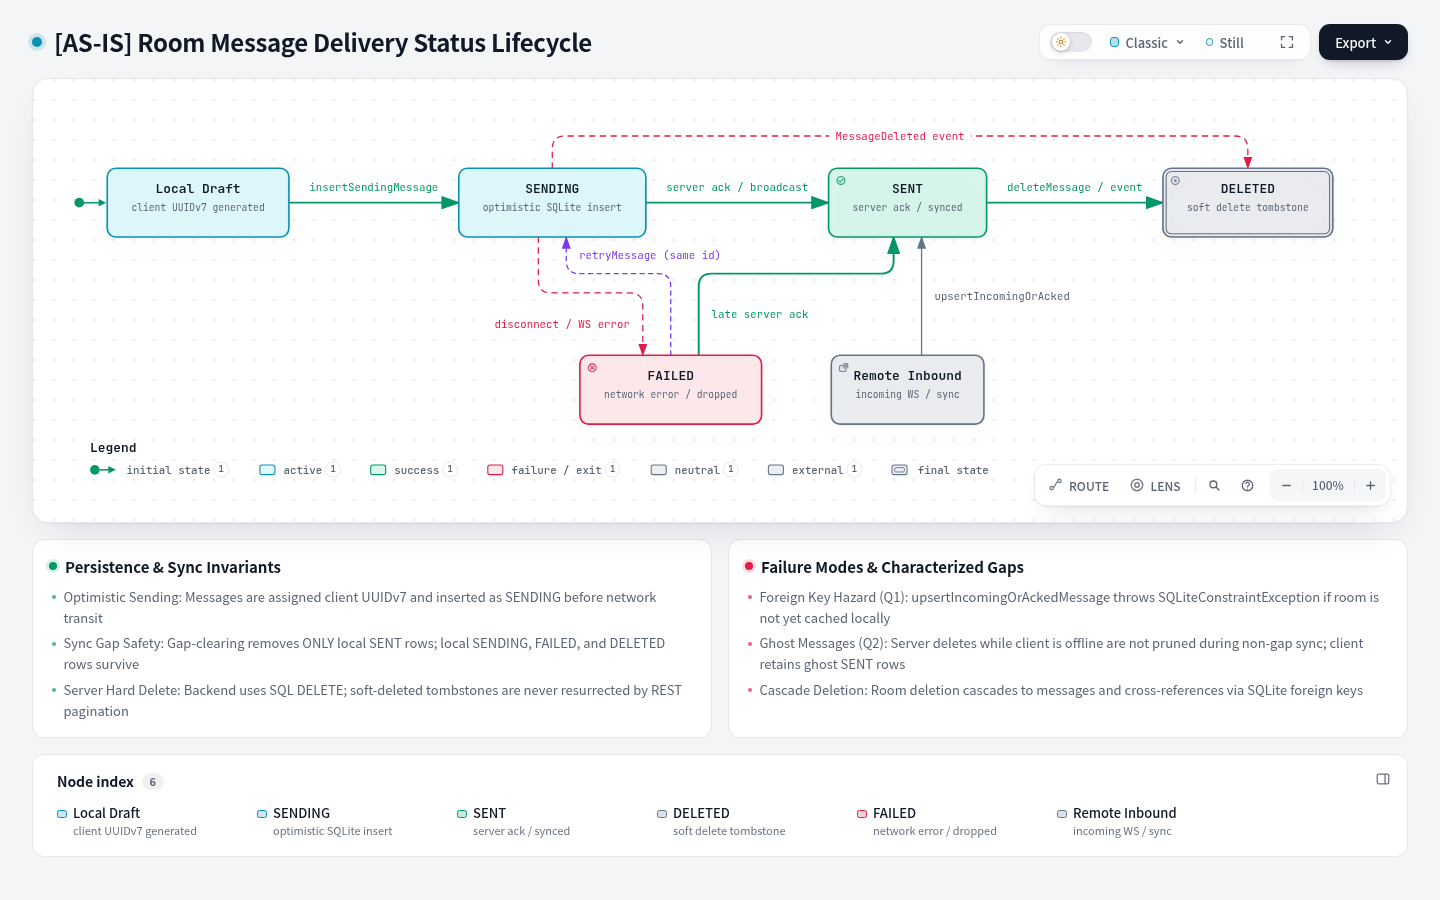
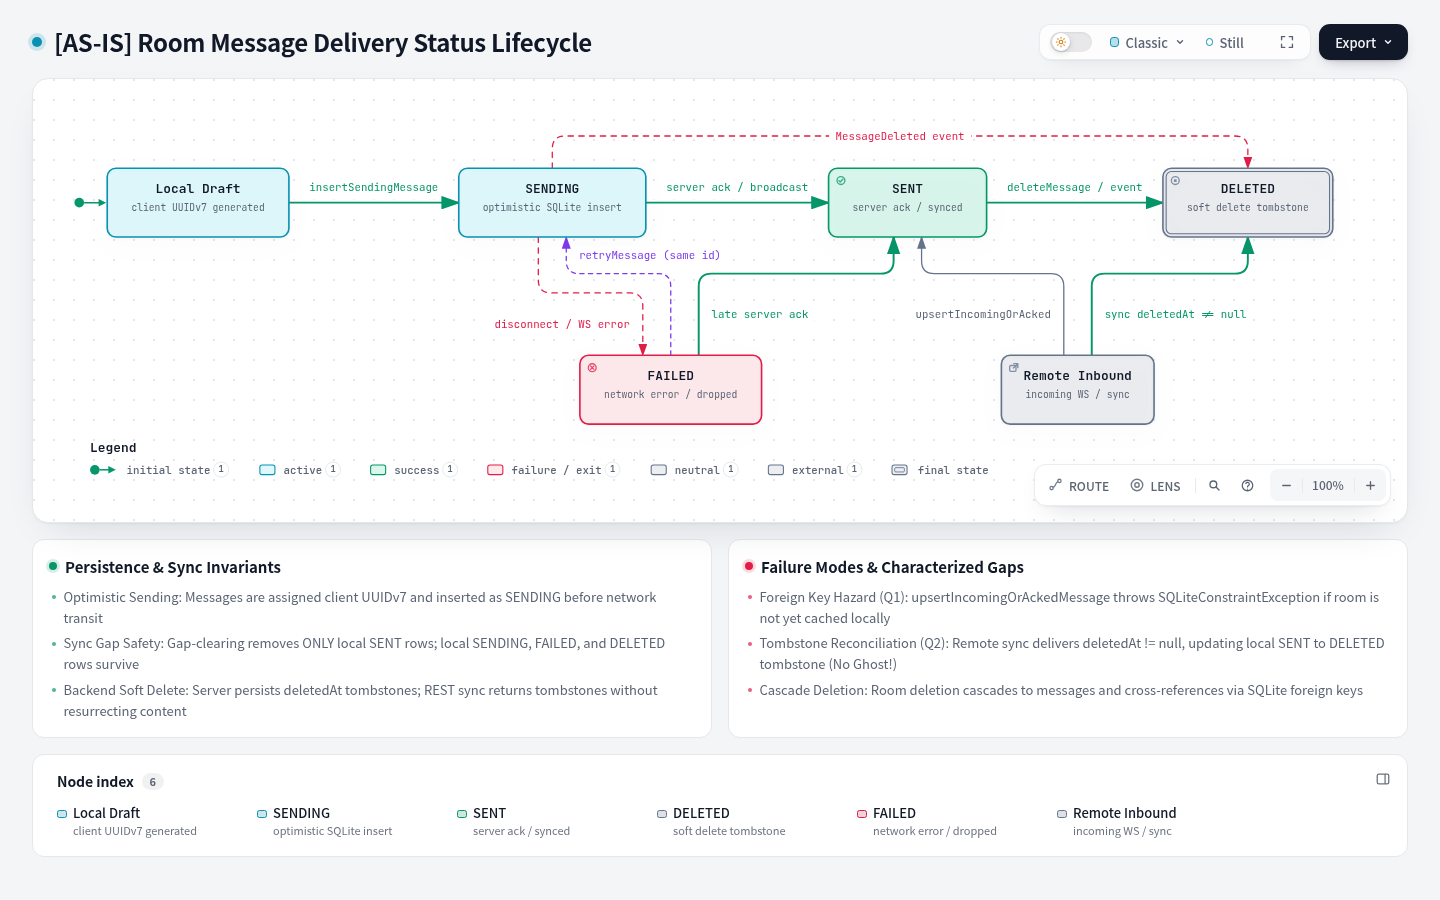
feat(chat): support deletedAt tombstones and eliminate offline ghost messages
- Add deletedAt to domain ChatMessage and map deletedAt != null to DELETED in ChatMapper.
- Update ChatMessageRepositoryImpl to use automatic delivery status mapping on sync.
- Add unit tests in ChatMapperTest and ChatMessageRepositoryImplTest for soft-deleted message ingestion.
- Add ChatDaoTest asserting transition from SENT to DELETED tombstone on sync.
- Update message-delivery-status lifecycle specification and static image previews.

Assisted-by: Gemini 3.8 Flash

diff --git a/docs/architecture/interactive/flows/message-delivery-status.html b/docs/architecture/interactive/flows/message-delivery-status.html
@@ -5261,8 +5261,12 @@ OTHER DEALINGS IN THE FONT SOFTWARE.
           <path data-edge-from="sending" data-edge-to="deleted" data-edge-label="MessageDeleted event" data-edge-key="6" data-edge-id="sending-deleted" data-composition-points="470,70;470,40;1117,40;1117,70" data-composition-crossover="halo" data-composition-independent="true" d="M 470 70 L 470 52 Q 470 40 482 40 L 1105 40 Q 1117 40 1117 52 L 1117 70" class="a-security" data-animate="edge" style="--step:6" stroke-width="1.2" marker-end="url(#arrowhead-security)"/>
         </g>
         <g data-graph-role="automatic-crossover" style="--step:7">
-          <path data-graph-role="automatic-crossover-underlay" d="M 813.5 244 L 813.5 134" fill="none" stroke="var(--mask)" stroke-width="5.2" stroke-linecap="round" stroke-linejoin="round" pointer-events="none"/>
-          <path data-edge-from="remote_inbound" data-edge-to="sent" data-edge-label="upsertIncomingOrAcked" data-edge-key="7" data-edge-id="remote-sent" data-composition-points="813.5,244;813.5,134" data-composition-crossover="halo" data-composition-independent="true" d="M 813.5 244 L 813.5 134" class="a-default" data-animate="edge" style="--step:7" stroke-width="1.2" marker-end="url(#arrowhead)"/>
+          <path data-graph-role="automatic-crossover-underlay" d="M 945.8 244 L 945.8 180 Q 945.8 168 933.8 168 L 825.5 168 Q 813.5 168 813.5 156 L 813.5 134" fill="none" stroke="var(--mask)" stroke-width="5.2" stroke-linecap="round" stroke-linejoin="round" pointer-events="none"/>
+          <path data-edge-from="remote_inbound" data-edge-to="sent" data-edge-label="upsertIncomingOrAcked" data-edge-key="7" data-edge-id="remote-sent" data-composition-points="945.8,244;945.8,168;813.5,168;813.5,134" data-composition-crossover="halo" data-composition-independent="true" d="M 945.8 244 L 945.8 180 Q 945.8 168 933.8 168 L 825.5 168 Q 813.5 168 813.5 156 L 813.5 134" class="a-default" data-animate="edge" style="--step:7" stroke-width="1.2" marker-end="url(#arrowhead)"/>
+        </g>
+        <g data-graph-role="automatic-crossover" style="--step:8">
+          <path data-graph-role="automatic-crossover-underlay" d="M 971.8 244 L 971.8 180 Q 971.8 168 983.8 168 L 1105 168 Q 1117 168 1117 156 L 1117 134" fill="none" stroke="var(--mask)" stroke-width="5.8" stroke-linecap="round" stroke-linejoin="round" pointer-events="none"/>
+          <path data-edge-from="remote_inbound" data-edge-to="deleted" data-edge-label="sync deletedAt != null" data-edge-key="8" data-edge-id="remote-deleted" data-composition-points="971.8,244;971.8,168;1117,168;1117,134" data-composition-crossover="halo" data-composition-independent="true" d="M 971.8 244 L 971.8 180 Q 971.8 168 983.8 168 L 1105 168 Q 1117 168 1117 156 L 1117 134" class="a-emphasis" data-animate="edge" style="--step:8" stroke-width="1.8" marker-end="url(#arrowhead-emphasis)"/>
         </g>
 
 
@@ -5334,15 +5338,15 @@ OTHER DEALINGS IN THE FONT SOFTWARE.
 
         <g id="node-remote_inbound" data-node-id="remote_inbound" data-node-label="Remote Inbound" tabindex="0" role="button" aria-label="Focus Remote Inbound, incoming WS / sync, Lifecycle state" aria-pressed="false" data-node-kind="external" data-node-sublabel="incoming WS / sync" data-node-tag="external" data-node-context="Lifecycle state">
           <title>Remote Inbound · incoming WS / sync · Lifecycle state · external</title>
-          <rect x="729.5" y="244" width="142" height="64" rx="8" class="c-mask"/>
-          <rect x="729.5" y="244" width="142" height="64" rx="8" class="c-external" data-animate="node" style="--step:0" stroke-width="1.5"/>
-          <g aria-hidden="true" data-semantic-sigil="external" class="semantic-sigil s-external" transform="translate(735.5 250) scale(0.6875)">
+          <rect x="887.75" y="244" width="142" height="64" rx="8" class="c-mask"/>
+          <rect x="887.75" y="244" width="142" height="64" rx="8" class="c-external" data-animate="node" style="--step:0" stroke-width="1.5"/>
+          <g aria-hidden="true" data-semantic-sigil="external" class="semantic-sigil s-external" transform="translate(893.75 250) scale(0.6875)">
             <rect x="2.5" y="5" width="8.5" height="8" rx="1.5"/>
             <path d="M8 2.5h5.5V8M13.5 2.5 7.5 8.5"/>
           </g>
-          <text data-node-label="" data-detail-anchor="" x="800.5" y="267" class="t-primary" font-size="12" font-weight="600" text-anchor="middle">Remote Inbound</text>
-          <text data-detail="context" x="800.5" y="284" class="t-muted" font-size="9" text-anchor="middle">incoming WS / sync</text>
-          <text data-detail="fine" x="800.5" y="299" class="t-muted" font-size="8" text-anchor="middle">external</text>
+          <text data-node-label="" data-detail-anchor="" x="958.75" y="267" class="t-primary" font-size="12" font-weight="600" text-anchor="middle">Remote Inbound</text>
+          <text data-detail="context" x="958.75" y="284" class="t-muted" font-size="9" text-anchor="middle">incoming WS / sync</text>
+          <text data-detail="fine" x="958.75" y="299" class="t-muted" font-size="8" text-anchor="middle">external</text>
         </g>
 
         <!-- Transition labels -->
@@ -5375,8 +5379,12 @@ OTHER DEALINGS IN THE FONT SOFTWARE.
           <text x="793.5" y="43.5" class="t-edge-security" font-size="10" text-anchor="middle">MessageDeleted event</text>
         </g>
         <g data-detail="context" data-edge-from="remote_inbound" data-edge-to="sent" data-edge-label="upsertIncomingOrAcked" data-edge-key="7" data-edge-id="remote-sent">
-          <rect x="819.5" y="181" width="138" height="16" rx="4" class="c-mask"/>
-          <text x="888.5" y="192.5" class="t-muted" font-size="10" text-anchor="middle">upsertIncomingOrAcked</text>
+          <rect x="801.8" y="198" width="138" height="16" rx="4" class="c-mask"/>
+          <text x="870.8" y="209.5" class="t-muted" font-size="10" text-anchor="middle">upsertIncomingOrAcked</text>
+        </g>
+        <g data-detail="context" data-edge-from="remote_inbound" data-edge-to="deleted" data-edge-label="sync deletedAt != null" data-edge-key="8" data-edge-id="remote-deleted">
+          <rect x="977.8" y="198" width="144" height="16" rx="4" class="c-mask"/>
+          <text x="1049.8" y="209.5" class="t-edge-emphasis" font-size="10" text-anchor="middle">sync deletedAt != null</text>
         </g>
 
         <!-- Legend -->
@@ -5596,7 +5604,7 @@ OTHER DEALINGS IN THE FONT SOFTWARE.
         <ul>
           <li>Optimistic Sending: Messages are assigned client UUIDv7 and inserted as SENDING before network transit</li>
           <li>Sync Gap Safety: Gap-clearing removes ONLY local SENT rows; local SENDING, FAILED, and DELETED rows survive</li>
-          <li>Server Hard Delete: Backend uses SQL DELETE; soft-deleted tombstones are never resurrected by REST pagination</li>
+          <li>Backend Soft Delete: Server persists deletedAt tombstones; REST sync returns tombstones without resurrecting content</li>
         </ul>
       </div>
 
@@ -5607,7 +5615,7 @@ OTHER DEALINGS IN THE FONT SOFTWARE.
         </div>
         <ul>
           <li>Foreign Key Hazard (Q1): upsertIncomingOrAckedMessage throws SQLiteConstraintException if room is not yet cached locally</li>
-          <li>Ghost Messages (Q2): Server deletes while client is offline are not pruned during non-gap sync; client retains ghost SENT rows</li>
+          <li>Tombstone Reconciliation (Q2): Remote sync delivers deletedAt != null, updating local SENT to DELETED tombstone (No Ghost!)</li>
           <li>Cascade Deletion: Room deletion cascades to messages and cross-references via SQLite foreign keys</li>
         </ul>
       </div>

diff --git a/core/database/src/test/kotlin/io/github/neronguyen/chat/core/database/dao/ChatDaoTest.kt b/core/database/src/test/kotlin/io/github/neronguyen/chat/core/database/dao/ChatDaoTest.kt
@@ -297,6 +297,29 @@ class ChatDaoTest {
     }
 
     @Test
+    fun syncRecentMessagesTransaction_reconcilesOfflineDeleteTombstone_fromSentToDeleted() = runTest {
+        // Contract SSOT: Backend returns soft-deleted tombstones (deletedAt != null -> DELETED)
+        createRoom("room-1")
+        val m1 = createMessage("m1", timestamp = 100L, deliveryStatus = MessageDeliveryStatus.SENT)
+        val m2 = createMessage("m2", timestamp = 200L, deliveryStatus = MessageDeliveryStatus.SENT)
+        val m3 = createMessage("m3", timestamp = 300L, deliveryStatus = MessageDeliveryStatus.SENT)
+        chatDao.upsertMessages(listOf(m1, m2, m3))
+
+        // Remote page delivers m2 as a soft-deleted tombstone (content redacted, status DELETED)
+        val remoteM1 = createMessage("m1", timestamp = 100L, deliveryStatus = MessageDeliveryStatus.SENT)
+        val remoteM2Tombstone = createMessage("m2", content = "", timestamp = 200L, deliveryStatus = MessageDeliveryStatus.DELETED)
+        val remoteM3 = createMessage("m3", timestamp = 300L, deliveryStatus = MessageDeliveryStatus.SENT)
+
+        chatDao.syncRecentMessagesTransaction("room-1", listOf(remoteM1, remoteM2Tombstone, remoteM3))
+
+        // m2 is successfully updated to DELETED tombstone; no ghost message remains!
+        val reconciled = chatDao.getMessageById("m2")
+        assertNotNull(reconciled)
+        assertEquals(MessageDeliveryStatus.DELETED, reconciled.deliveryStatus)
+        assertEquals("", reconciled.content)
+    }
+
+    @Test
     fun syncRecentMessagesTransaction_knownGap_offlineDeleteLeavesGhostSentMessage() = runTest {
         // Characterization test for Q2-A:
         // When a message is deleted server-side while the client is offline,

diff --git a/core/data/src/test/kotlin/io/github/neronguyen/chat/core/data/mapper/ChatMapperTest.kt b/core/data/src/test/kotlin/io/github/neronguyen/chat/core/data/mapper/ChatMapperTest.kt
@@ -65,6 +65,47 @@ class ChatMapperTest {
     }
 
     @Test
+    fun `ChatMessageDto with deletedAt toEntity defaults to DELETED deliveryStatus`() {
+        val createdInstant = Instant.parse("2025-01-01T12:00:00Z")
+        val deletedInstant = Instant.parse("2025-01-01T12:05:00Z")
+
+        val dto = ChatMessageDto(
+            id = "msg-del-1",
+            roomId = "room1",
+            senderId = "sender1",
+            content = "",
+            createdAt = createdInstant,
+            deletedAt = deletedInstant
+        )
+
+        val entity = dto.toEntity()
+
+        assertEquals("msg-del-1", entity.id)
+        assertEquals(MessageDeliveryStatus.DELETED, entity.deliveryStatus)
+    }
+
+    @Test
+    fun `ChatMessageDto with deletedAt toDomain maps to DELETED deliveryStatus and preserves deletedAt`() {
+        val createdInstant = Instant.parse("2025-01-01T12:00:00Z")
+        val deletedInstant = Instant.parse("2025-01-01T12:05:00Z")
+
+        val dto = ChatMessageDto(
+            id = "msg-del-2",
+            roomId = "room1",
+            senderId = "sender1",
+            content = "",
+            createdAt = createdInstant,
+            deletedAt = deletedInstant
+        )
+
+        val domain = dto.toDomain()
+
+        assertEquals("msg-del-2", domain.id)
+        assertEquals(MessageDeliveryStatus.DELETED, domain.deliveryStatus)
+        assertEquals(deletedInstant, domain.deletedAt)
+    }
+
+    @Test
     fun `ChatMessageEntity toDomain and ChatMessage toEntity roundtrip preserves accuracy`() {
         val timeMillis = 1735732800000L // 2025-01-01T12:00:00Z
         val entity = ChatMessageEntity(

diff --git a/core/data/src/test/kotlin/io/github/neronguyen/chat/core/data/repository/ChatMessageRepositoryImplTest.kt b/core/data/src/test/kotlin/io/github/neronguyen/chat/core/data/repository/ChatMessageRepositoryImplTest.kt
@@ -333,6 +333,39 @@ class ChatMessageRepositoryImplTest {
     }
 
     @Test
+    fun `syncRecentMessages maps soft-deleted remote message with deletedAt to DELETED delivery status`() = runTest {
+        val fakeDao = FakeChatDao()
+        val fakeRealtime = FakeChatRealtimeDataSource()
+        val deletedDto = ChatMessageDto(
+            id = "m-deleted",
+            roomId = "room1",
+            senderId = "u1",
+            content = "",
+            createdAt = Instant.fromEpochMilliseconds(1000L),
+            deletedAt = Instant.fromEpochMilliseconds(1050L)
+        )
+        val fakeNetwork = FakeChatNetworkDataSource().apply {
+            messagesToReturn = ChatMessageSliceDto(messages = listOf(deletedDto), hasMore = false)
+        }
+        val fakeToken = FakeTokenDataSource()
+
+        val repository = createRepository(
+            chatDao = fakeDao,
+            realtimeDataSource = fakeRealtime,
+            networkDataSource = fakeNetwork,
+            tokenDataSource = fakeToken
+        )
+
+        val result = repository.syncRecentMessages("room1")
+
+        assertTrue(result.isRight())
+        assertEquals(1, fakeDao.insertedMessages.size)
+        val synced = fakeDao.insertedMessages.first()
+        assertEquals("m-deleted", synced.id)
+        assertEquals(MessageDeliveryStatus.DELETED, synced.deliveryStatus)
+    }
+
+    @Test
     fun `syncRecentMessages clears sent messages and updates room summary when remote is empty`() =
         runTest {
             val fakeDao = FakeChatDao().apply {

diff --git a/core/data/src/main/kotlin/io/github/neronguyen/chat/core/data/repository/ChatMessageRepositoryImpl.kt b/core/data/src/main/kotlin/io/github/neronguyen/chat/core/data/repository/ChatMessageRepositoryImpl.kt
@@ -51,7 +51,7 @@ internal class ChatMessageRepositoryImpl @Inject constructor(
         return networkDataSource.getMessagesForChatRoom(roomId, before = null)
             .mapLeft { it.toDataError() }
             .map { slice ->
-                val remoteEntities = slice.messages.map { it.toEntity(MessageDeliveryStatus.SENT) }
+                val remoteEntities = slice.messages.map { it.toEntity() }
                 chatDao.syncRecentMessagesTransaction(roomId, remoteEntities)
                 slice.hasMore
             }
@@ -69,7 +69,7 @@ internal class ChatMessageRepositoryImpl @Inject constructor(
         ).mapLeft { it.toDataError() }
         .map { slice ->
             if (slice.messages.isNotEmpty()) {
-                chatDao.upsertMessages(slice.messages.map { it.toEntity(MessageDeliveryStatus.SENT) })
+                chatDao.upsertMessages(slice.messages.map { it.toEntity() })
             }
 
             slice.hasMore

diff --git a/core/data/src/main/kotlin/io/github/neronguyen/chat/core/data/mapper/ChatMapper.kt b/core/data/src/main/kotlin/io/github/neronguyen/chat/core/data/mapper/ChatMapper.kt
@@ -54,7 +54,7 @@ internal fun ChatParticipantEntity.toDomain(): ChatParticipant {
 }
 
 internal fun ChatMessageDto.toDomain(
-    status: MessageDeliveryStatus = MessageDeliveryStatus.SENT
+    status: MessageDeliveryStatus = if (deletedAt != null) MessageDeliveryStatus.DELETED else MessageDeliveryStatus.SENT
 ): ChatMessage {
     return ChatMessage(
         id = id,
@@ -62,12 +62,13 @@ internal fun ChatMessageDto.toDomain(
         senderId = senderId,
         content = content,
         timestamp = createdAt,
-        deliveryStatus = status
+        deliveryStatus = status,
+        deletedAt = deletedAt
     )
 }
 
 internal fun ChatMessageDto.toEntity(
-    status: MessageDeliveryStatus = MessageDeliveryStatus.SENT
+    status: MessageDeliveryStatus = if (deletedAt != null) MessageDeliveryStatus.DELETED else MessageDeliveryStatus.SENT
 ): ChatMessageEntity {
     return ChatMessageEntity(
         id = id,

diff --git a/core/model/src/main/kotlin/io/github/neronguyen/chat/core/model/ChatMessage.kt b/core/model/src/main/kotlin/io/github/neronguyen/chat/core/model/ChatMessage.kt
@@ -8,5 +8,6 @@ data class ChatMessage(
     val senderId: String,
     val content: String,
     val timestamp: Instant,
-    val deliveryStatus: MessageDeliveryStatus
+    val deliveryStatus: MessageDeliveryStatus,
+    val deletedAt: Instant? = null
 )
